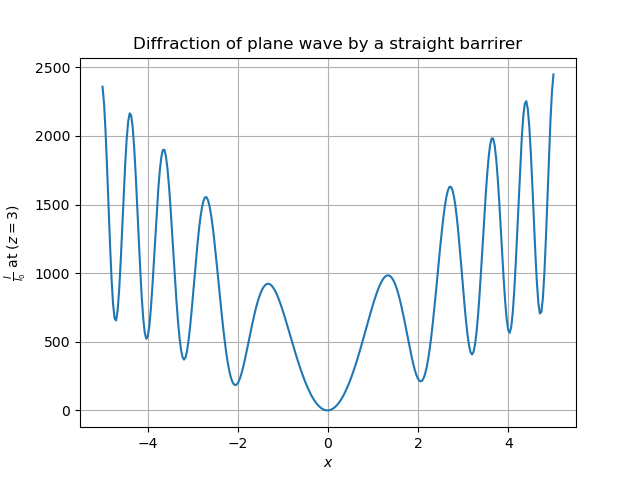
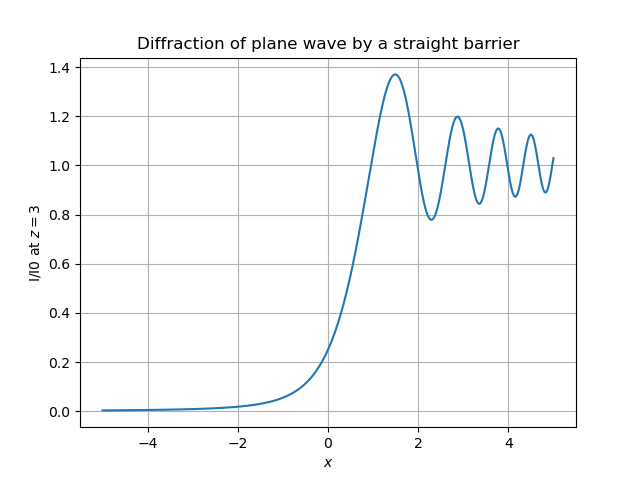
x

diff --git a/Assignments/HW2/Ques15/Q15.py b/Assignments/HW2/Ques15/Q15.py
@@ -1,5 +1,8 @@
 import numpy as np
 from matplotlib import pyplot as plt
+import sys, os
+sys.path.append(os.path.abspath("."))
+from Packages.Integration import GaussQuad
 
 '''
 Gamma Function
@@ -15,4 +18,22 @@ for a in range(2,5):
     y = Integrand(a,x)
     plt.plot(x,y)
 plt.show()
+
+def Int(a,x):
+    return np.exp((a-1)*np.log(x)-x)
+
+def Int2(a,z):
+    c = a-1
+    return Int(a,c/(1/z-1))*c/(1-z)**2
+
+
+def gamma(a):
+    I =lambda z: Int2(a,z)
+    return GaussQuad(0,1,100,I)
+
+print('Gamma(3/2) is {}'.format(gamma(3/2)))
+
+for i in range(10):
+    print('Gamma({}) is {}'.format(i,gamma(i)))
+    
 

diff --git a/Assignments/HW2/Ques11/Q11.py b/Assignments/HW2/Ques11/Q11.py
@@ -21,13 +21,12 @@ x = np.linspace(-5,5,300)
 wl = 1 #wavelength
 z = 3 
 
-
 Intensity = [I(u) for u in x*np.sqrt(2/(wl*z))]
 
 plt.plot(x,Intensity)
-plt.title(r'Diffraction of plane wave by a straight barrirer')
+plt.title(r'Diffraction of plane wave by a straight barrier')
 plt.xlabel(r'$x$')
-plt.ylabel(r'$\frac{I}{I_0}$ at $(z=3)$')
+plt.ylabel(r'$I/I0$ at $z=3$')
 plt.grid()
 plt.savefig('Ques11/Q11.png')
 plt.show()

diff --git a/Assignments/HW2/Ques9/Q9.py b/Assignments/HW2/Ques9/Q9.py
@@ -10,7 +10,7 @@ def integrand(x):
 
 def cv(T):
     V = 10**(-3) # 10^(-3) cumbic meters
-    ro = Avogadro
+    ro = Avogadro*10**5
     DebT = 428
     integral = GaussQuad(0,DebT/T,50,integrand)
     C = 9*V*ro*Boltzmann*(T/DebT)**3*integral
